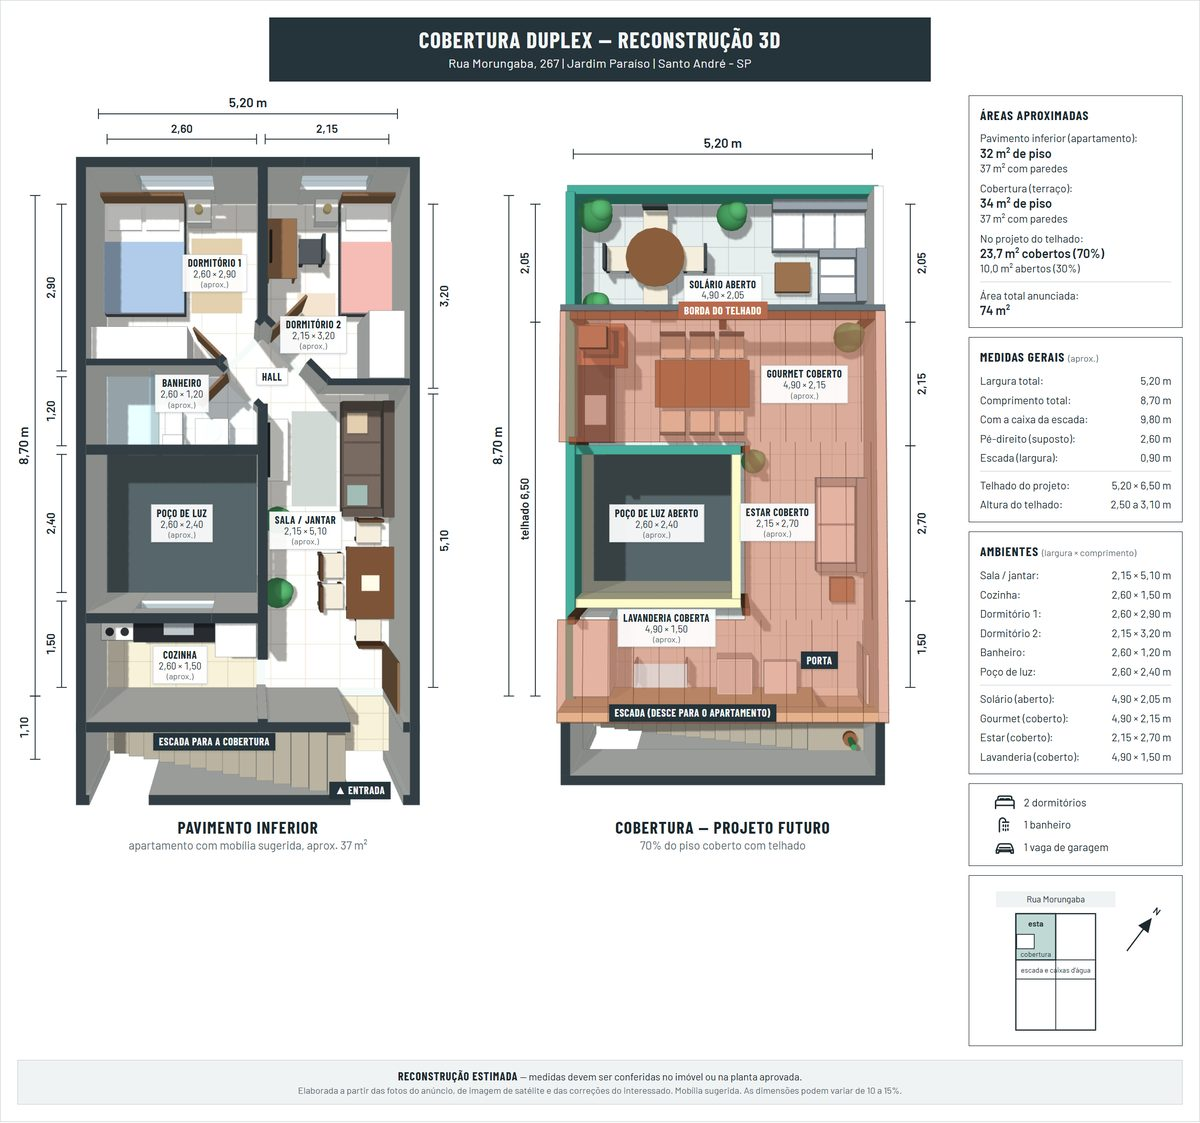
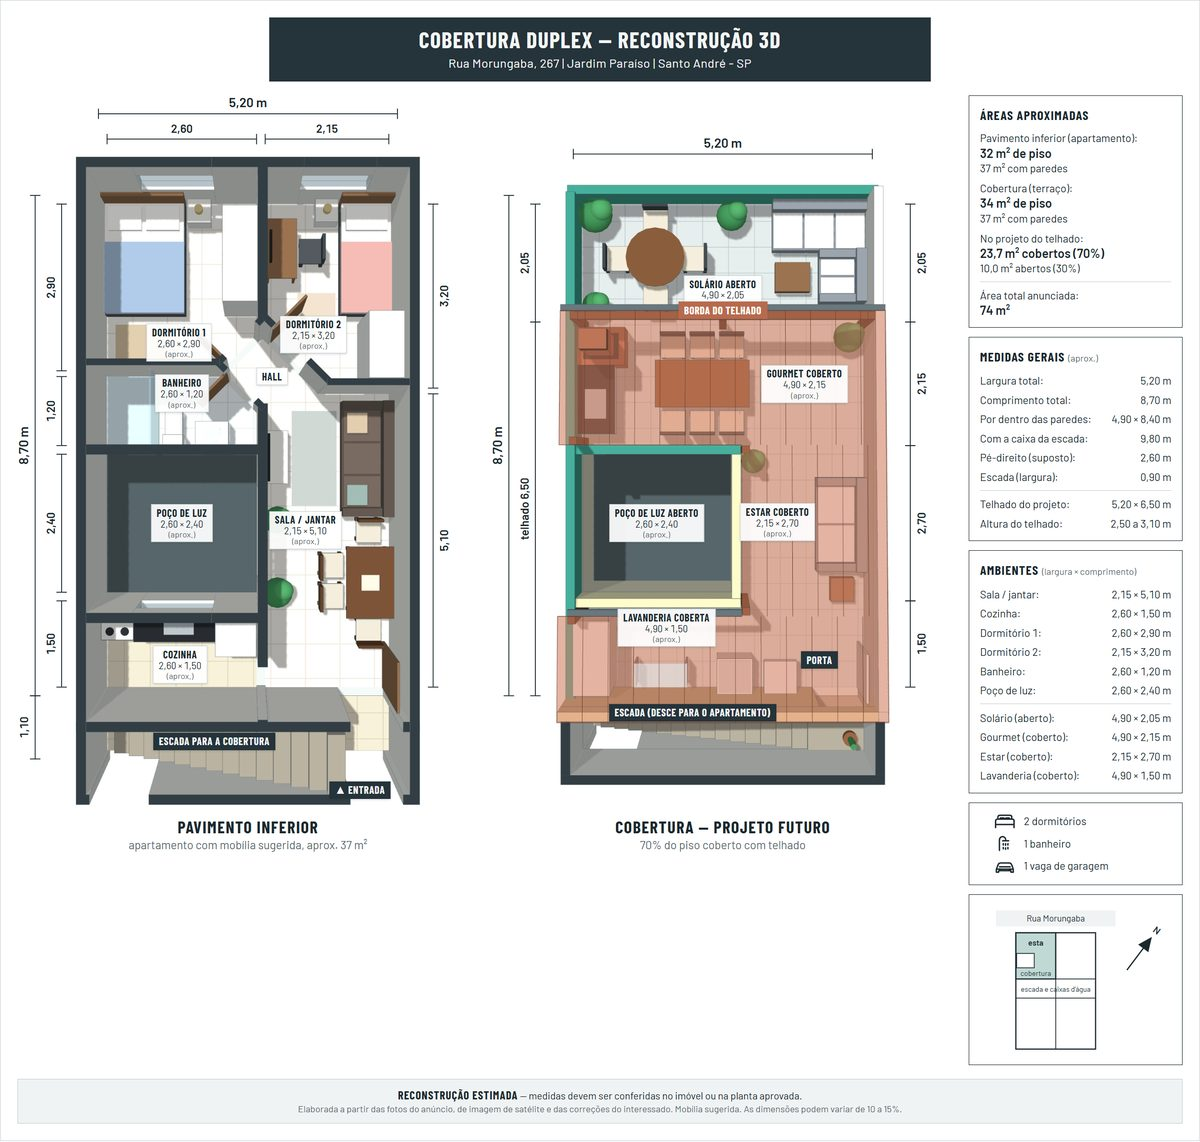
Ajustes da conferência de medidas

diff --git a/index.html b/index.html
@@ -293,7 +293,7 @@ tr:last-child td{border-bottom:0}
         <ul>
           <li>Piso interno de 60 cm e piso do terraço de 45 cm, conferidos pela porta (2,10 m), pela cama de casal e pelo tanque.</li>
           <li>Largura do prédio (cerca de 5,2 m por unidade) e posição do poço de luz tiradas do satélite.</li>
-          <li>Três leituras independentes das fotos foram cruzadas com o desenho. A soma com paredes dá 37 m² embaixo e 37 m² em cima, o que fecha com os 74 m² do anúncio.</li>
+          <li>Três leituras independentes das fotos e duas conferências de medidas foram cruzadas com o desenho. A soma com paredes dá cerca de 37 m² embaixo e 37 m² em cima, perto dos 74 m² do anúncio.</li>
         </ul>
       </div>
       <div>
@@ -338,7 +338,7 @@ var C = {q1:'#cdb898', q2:'#b7c6a6', bn:'#a6c7d1', ci:'#d6d1c4', sa:'#dcc88e', c
          furn:'#8d99a0', wood:'#8a6648', dark:'#3b4347', stair:'#a59f8f', slab:'#d9dedd', glass:'#9fd0e6', roof:'#b86a4e'};
 
 var ROOMS = [
-  {id:'q1', n:'Quarto 1 (casal)', lv:0, c:C.q1, conf:'média', lx:2.08, ly:1.30,
+  {id:'q1', n:'Quarto 1 (casal)', lv:0, c:C.q1, conf:'média', lx:1.30, ly:2.40,
    pts:[[0.15,0.15],[2.75,0.15],[2.75,2.44],[2.14,3.05],[0.15,3.05]]},
   {id:'q2', n:'Quarto 2',         lv:0, c:C.q2, conf:'média', lx:3.72, ly:2.30,
    pts:[[2.90,0.15],[5.05,0.15],[5.05,3.35],[3.86,3.35],[2.90,2.39]]},
@@ -370,7 +370,7 @@ var WALLS = [
   {lv:0,x0:0.15,y0:3.05,x1:2.17,y1:3.15,h:H0,c:C.wall},
   {lv:0,x0:3.80,y0:3.35,x1:5.05,y1:3.45,h:H0,c:C.wall},
   {lv:0,x0:0.15,y0:4.35,x1:2.75,y1:4.50,h:H0,c:C.wall,op:[{a:0.40,b:1.00,sill:1.5,head:2.1,t:'janela'}]},
-  {lv:0,x0:2.75,y0:3.73,x1:2.90,y1:8.55,h:H0,c:C.wall,op:[{a:5.00,b:6.50,sill:1.0,head:2.1,t:'janela'},{a:7.60,b:8.50,sill:0,head:2.1,t:'vao'}]},
+  {lv:0,x0:2.75,y0:3.73,x1:2.90,y1:8.55,h:H0,c:C.wall,op:[{a:5.00,b:6.50,sill:1.0,head:2.1,t:'janela'},{a:7.72,b:8.52,sill:0,head:2.1,t:'vao'}]},
   {lv:0,x0:0.15,y0:6.90,x1:2.75,y1:7.05,h:H0,c:C.wall,op:[{a:0.85,b:2.05,sill:1.1,head:2.1,t:'janela'}]},
   {lv:0,x0:0,y0:8.55,x1:5.2,y1:8.70,h:H0,c:C.wall,op:[{a:4.15,b:4.95,sill:0,head:2.1,t:'porta'}]},
   // cobertura
@@ -402,20 +402,20 @@ var DOORS = [
 ];
 // contorno dos moveis nas plantas 2D. lv 0 = apartamento, 1 = cobertura (hoje e projeto), 2 = so no projeto da cobertura
 var FURN = [
-  {lv:0,x0:0.15,y0:0.15,x1:1.53,y1:2.11},{lv:0,x0:1.57,y0:0.17,x1:1.97,y1:0.57},{lv:0,x0:0.15,y0:2.50,x1:1.65,y1:3.05},
+  {lv:0,x0:0.15,y0:0.15,x1:1.53,y1:2.11},{lv:0,x0:1.57,y0:0.17,x1:1.97,y1:0.57},{lv:0,x0:2.20,y0:0.60,x1:2.75,y1:2.10},
   {lv:0,x0:4.17,y0:0.15,x1:5.05,y1:2.11},{lv:0,x0:3.75,y0:0.17,x1:4.13,y1:0.55},{lv:0,x0:4.50,y0:2.25,x1:5.05,y1:3.30},{lv:0,x0:2.90,y0:0.55,x1:3.42,y1:1.55},
-  {lv:0,x0:4.20,y0:3.60,x1:5.05,y1:5.55},{lv:0,x0:2.90,y0:3.90,x1:3.28,y1:4.95},{lv:0,x0:4.25,y0:6.05,x1:5.05,y1:7.25},
+  {lv:0,x0:4.20,y0:3.60,x1:5.05,y1:5.55},{lv:0,x0:2.90,y0:4.10,x1:3.28,y1:5.00},{lv:0,x0:4.25,y0:6.05,x1:5.05,y1:7.25},
   {lv:0,x0:0.70,y0:7.05,x1:2.05,y1:7.60},{lv:0,x0:0.15,y0:7.05,x1:0.70,y1:7.60},{lv:0,x0:2.08,y0:7.05,x1:2.73,y1:7.72},
-  {lv:0,x0:0.15,y0:3.15,x1:1.05,y1:4.35},{lv:0,x0:1.17,y0:3.76,x1:1.50,y1:4.35},{lv:0,x0:1.72,y0:3.90,x1:2.27,y1:4.35},
+  {lv:0,x0:0.15,y0:3.15,x1:1.05,y1:4.35},{lv:0,x0:1.17,y0:3.76,x1:1.50,y1:4.35},{lv:0,x0:1.72,y0:3.95,x1:2.27,y1:4.35},
   {lv:1,x0:3.30,y0:8.00,x1:3.85,y1:8.55},{lv:1,x0:2.50,y0:7.95,x1:3.10,y1:8.55},
-  {lv:2,x0:0.15,y0:2.30,x1:0.95,y1:3.00},{lv:2,x0:0.15,y0:3.00,x1:0.75,y1:4.30},{lv:2,x0:1.45,y0:2.90,x1:3.05,y1:3.70},
+  {lv:2,x0:0.15,y0:2.36,x1:0.95,y1:3.00},{lv:2,x0:0.15,y0:3.00,x1:0.75,y1:4.15},{lv:2,x0:1.45,y0:2.90,x1:3.05,y1:3.70},
   {lv:2,x0:4.20,y0:4.90,x1:5.05,y1:6.50},{lv:2,x0:3.45,y0:0.17,x1:5.05,y1:1.00},{lv:2,x0:4.25,y0:1.00,x1:5.05,y1:1.90},
-  {lv:2,x0:0.95,y0:0.65,x1:1.95,y1:1.65},{lv:2,x0:0.15,y0:7.15,x1:0.75,y1:8.45}
+  {lv:2,x0:0.95,y0:0.65,x1:1.95,y1:1.65},{lv:2,x0:0.15,y0:7.22,x1:0.75,y1:8.45}
 ];
 var STAIR = {x0:0.30, x1:4.08, y0:8.75, y1:9.65, n:14};   // 14 pisos, 15 espelhos, sobe da esquerda para a direita
 
 // projeto futuro: telhado cobrindo 70% do piso do terraco. Fica aberta a faixa da frente e o poco de luz.
-var ROOF = {y0:2.20, y1:8.70, x0:0, x1:5.20, nx:2.95, ny0:4.30, ny1:7.10, h0:2.50, h1:3.10};
+var ROOF = {y0:2.20, y1:8.70, x0:0, x1:5.20, nx:2.90, ny0:4.35, ny1:7.05, h0:2.50, h1:3.10};
 ROOF.pts = [[ROOF.x0,ROOF.y0],[ROOF.x1,ROOF.y0],[ROOF.x1,ROOF.y1],[ROOF.x0,ROOF.y1],[ROOF.x0,ROOF.ny1],[ROOF.nx,ROOF.ny1],[ROOF.nx,ROOF.ny0],[ROOF.x0,ROOF.ny0]];
 var POSTS = [[0.21,2.27],[2.60,2.27],[4.99,2.27],[0.21,4.28],[2.97,4.42],[2.97,6.98],[0.21,7.12]];
 var ZONES = [   // ambientes do projeto da cobertura: nome, x, y, largura, comprimento, coberto?
@@ -533,6 +533,7 @@ plan(1, document.getElementById('p2'), true);
   document.getElementById('geral').innerHTML = '<thead><tr><th>Item</th><th class="num">Medida</th></tr></thead><tbody>'+
     tr('Largura externa (apartamento e cobertura)',fmt(W)+' m')+
     tr('Comprimento externo, da frente até a parede da escada',fmt(D)+' m')+
+    tr('Medidas internas (de parede a parede)',fmt(W-0.30)+' × '+fmt(D-0.30)+' m')+
     tr('Caixa da escada, atrás',fmt(DC-D)+' m')+
     tr('Comprimento total com a escada',fmt(DC)+' m')+
     tr('Vão do lado do poço de luz (quarto 1, banheiro, cozinha)','2,60 m')+
@@ -544,13 +545,14 @@ plan(1, document.getElementById('p2'), true);
     tr('Porta de entrada','0,80 × 2,10 m')+
     tr('Portas dos quartos (a 45°)','0,70 e 0,75 × 2,10 m')+
     tr('Porta do banheiro (a 45°)','0,65 × 2,10 m')+
-    tr('Vão da cozinha, sem porta','0,90 m')+
+    tr('Vão da cozinha, sem porta','0,80 m')+
     tr('Janelas dos quartos e da cozinha','1,20 × 1,00 m')+
     tr('Janela da sala (para o poço)','1,50 × 1,10 m')+
     tr('Janela do banheiro','0,60 × 0,60 m')+
     tr('Escada: largura livre',fmt(st.y1-st.y0)+' m')+
     tr('Escada: 14 pisos e 15 espelhos',f1(piso)+' cm e '+f1(esp)+' cm')+
     tr('Escada: comprimento do lance',fmt(st.x1-st.x0)+' m')+
+    tr('Escada: onde começa embaixo','a confirmar no local')+
     tr('Mureta da frente do terraço','1,20 m de altura')+
     tr('Mureta do poço de luz','1,35 m de altura')+
     tr('Mureta do lado esquerdo','1,50 m de altura')+
@@ -575,7 +577,7 @@ plan(1, document.getElementById('p2'), true);
     '<p>No projeto do telhado:<b>'+f1(COB)+' m² cobertos ('+PCT+'%)</b>'+f1(DESC)+' m² abertos ('+(100-PCT)+'%)</p><hr>'+
     '<p>Área total anunciada:<b>74 m²</b></p>';
   function dd(n,v){ return '<dt>'+n+'</dt><dd>'+v+'</dd>'; }
-  document.getElementById('b-geral').innerHTML = dd('Largura total:',fmt(W)+' m')+dd('Comprimento total:',fmt(D)+' m')+dd('Com a caixa da escada:',fmt(DC)+' m')+
+  document.getElementById('b-geral').innerHTML = dd('Largura total:',fmt(W)+' m')+dd('Comprimento total:',fmt(D)+' m')+dd('Por dentro das paredes:',fmt(W-0.30)+' × '+fmt(D-0.30)+' m')+dd('Com a caixa da escada:',fmt(DC)+' m')+
     dd('Pé-direito (suposto):','2,60 m')+dd('Escada (largura):',fmt(st.y1-st.y0)+' m')+'<div class="sep"></div>'+
     dd('Telhado do projeto:',fmt(ROOF.x1-ROOF.x0)+' × '+fmt(ROOF.y1-ROOF.y0)+' m')+dd('Altura do telhado:',fmt(ROOF.h0)+' a '+fmt(ROOF.h1)+' m');
   function dr(n,id){ var r=room(id); return dd(n,fmt(r.w)+' × '+fmt(r.d)+' m'); }
@@ -709,8 +711,8 @@ plan(1, document.getElementById('p2'), true);
     // quarto 1
     bed(g,z,0.15,0.15,1.53,2.11,'#9db4cf',2);
     box(g,1.57,0.17,1.97,0.57,z,z+0.50,'#f2f1ed'); cyl(g,1.77,0.37,z+0.50,z+0.72,0.07,'#d8c690');
-    box(g,0.15,2.50,1.65,3.05,z,z+2.05,'#f2f1ed'); box(g,0.89,2.50,0.91,2.51,z+0.05,z+2.0,'#9aa3a8',0,true);
-    box(g,1.62,0.75,2.50,2.05,z+0.004,z+0.016,'#c8b89a',0,true);
+    box(g,2.20,0.60,2.75,2.10,z,z+2.05,'#f2f1ed'); box(g,2.20,1.34,2.21,1.36,z+0.05,z+2.0,'#9aa3a8',0,true);
+    box(g,0.30,2.25,1.42,2.92,z+0.004,z+0.016,'#c8b89a',0,true);
     // quarto 2
     bed(g,z,4.17,0.15,5.05,2.11,'#d9a7a0',1);
     box(g,3.75,0.17,4.13,0.55,z,z+0.50,'#f2f1ed'); cyl(g,3.94,0.36,z+0.50,z+0.72,0.07,'#d8c690');
@@ -722,7 +724,7 @@ plan(1, document.getElementById('p2'), true);
     // sala
     sofaE(g,z,4.20,3.60,5.05,5.55,'#5a4f48','#6b5f57'); box(g,4.28,3.80,4.62,4.14,z+0.46,z+0.56,'#c9b79c',0,true); box(g,4.28,5.02,4.62,5.36,z+0.46,z+0.56,'#8fa7a0',0,true);
     box(g,3.36,3.75,4.14,5.40,z+0.004,z+0.016,'#b9c0bd',0,true);
-    box(g,2.90,3.90,3.28,4.95,z,z+0.48,'#f2f1ed'); box(g,2.91,3.98,2.96,4.87,z+0.78,z+1.32,'#1d2124');
+    box(g,2.90,4.10,3.28,5.00,z,z+0.48,'#f2f1ed'); box(g,2.91,4.16,2.96,4.94,z+0.78,z+1.32,'#1d2124');
     plant(g,z,3.10,5.62,0.9); plant(g,z,3.10,6.85,1.0);
     table(g,z,4.25,6.05,5.05,7.25); box(g,4.50,6.52,4.80,6.78,z+0.76,z+0.79,'#e7e0cf',0,true);
     chair(g,z,4.01,6.39,'w'); chair(g,z,4.01,6.91,'w'); chair(g,z,4.65,5.79,'n'); chair(g,z,4.65,7.51,'s');
@@ -735,7 +737,7 @@ plan(1, document.getElementById('p2'), true);
     // banheiro
     box(g,0.15,3.15,1.05,4.35,z+0.004,z+0.03,'#cfe3ea',0,true); box(g,1.04,3.15,1.07,4.35,z,z+1.9,C.glass,0.32,true);
     box(g,1.17,4.17,1.50,4.35,z,z+0.74,'#fbfbfa'); box(g,1.19,3.76,1.48,4.17,z,z+0.40,'#fbfbfa'); box(g,1.21,3.78,1.46,4.15,z+0.40,z+0.43,'#eef1f2',0,true);
-    box(g,1.72,3.90,2.27,4.35,z,z+0.80,'#fbfbfa'); cyl(g,1.99,4.12,z+0.80,z+0.83,0.17,'#dfe7ea');
+    box(g,1.72,3.95,2.27,4.35,z,z+0.80,'#fbfbfa'); cyl(g,1.99,4.15,z+0.80,z+0.83,0.16,'#dfe7ea');
     box(g,1.15,3.28,1.65,3.60,z+0.004,z+0.018,'#b7c9d6',0,true);
   })();
   // ---------- cobertura hoje: tanque e maquina (ficam tambem no projeto) ----------
@@ -756,6 +758,7 @@ plan(1, document.getElementById('p2'), true);
     var out=ROOF.pts.concat([ROOF.pts[0]]); for(var k=0;k<out.length-1;k++) pts.push(new THREE.Vector3(out[k][0]-CX,z+hR(out[k][1])+0.014,out[k][1]-CY), new THREE.Vector3(out[k+1][0]-CX,z+hR(out[k+1][1])+0.014,out[k+1][1]-CY));
     roofLines=new THREE.LineSegments(new THREE.BufferGeometry().setFromPoints(pts),new THREE.LineBasicMaterial({color:0x6b3a2a})); g.add(roofLines);
     box(g,0,ROOF.y0-0.10,W,ROOF.y0,z+ROOF.h0-0.13,z+ROOF.h0-0.03,'#5d6a6e');                                   // calha da frente
+    box(g,0.15,ROOF.ny1-0.10,ROOF.nx,ROOF.ny1,z+hR(ROOF.ny1)-0.13,z+hR(ROOF.ny1)-0.03,'#5d6a6e');                // calha atras do poco de luz
     box(g,0.15,ROOF.y0+0.01,5.05,ROOF.y0+0.13,z+ROOF.h0-0.27,z+ROOF.h0-0.085,WD);                               // viga da frente
     POSTS.forEach(function(p){ box(g,p[0]-0.06,p[1]-0.06,p[0]+0.06,p[1]+0.06,z,z+hR(p[1])-0.085,WD); });
     // muro alto e parede do fundo sobem ate o telhado
@@ -764,15 +767,15 @@ plan(1, document.getElementById('p2'), true);
     place(g,wg,mat(C.white),W-CX,z,-CY,0,false,false);
     box(g,0,D-0.15,W,D,z+2.4,z+hR(D-0.15)-0.085,C.cream);
     // gourmet coberto
-    box(g,0.15,2.30,0.95,3.00,z,z+1.0,'#a8674d'); box(g,0.25,2.42,0.85,2.88,z+1.0,z+1.02,'#2a2d30',0,true); box(g,0.33,2.48,0.77,2.82,z+1.02,z+hR(2.65)+0.45,'#a8674d');
-    box(g,0.15,3.00,0.75,4.30,z,z+0.86,'#f4f3ef'); box(g,0.15,3.00,0.77,4.30,z+0.86,z+0.90,'#23272b'); box(g,0.27,3.50,0.63,4.00,z+0.895,z+0.908,'#a7b0b5',0,true);
+    box(g,0.15,2.36,0.95,3.00,z,z+1.0,'#a8674d'); box(g,0.25,2.46,0.85,2.90,z+1.0,z+1.02,'#2a2d30',0,true); box(g,0.33,2.52,0.77,2.84,z+1.02,z+hR(2.68)+0.45,'#a8674d');
+    box(g,0.15,3.00,0.75,4.15,z,z+0.86,'#f4f3ef'); box(g,0.15,3.00,0.77,4.15,z+0.86,z+0.90,'#23272b'); box(g,0.27,3.40,0.63,3.90,z+0.895,z+0.908,'#a7b0b5',0,true);
     table(g,z,1.45,2.90,3.05,3.70,'#7a5236');
     [1.75,2.25,2.75].forEach(function(x){ chair(g,z,x,2.64,'n',FAB,'#3b4347'); chair(g,z,x,3.96,'s',FAB,'#3b4347'); });
     plant(g,z,4.75,2.50,1.0);
     // estar coberto
     sofaE(g,z,4.20,4.90,5.05,6.50,'#8a9299','#eef0f0'); box(g,4.45,6.62,4.85,7.02,z,z+0.45,WL); plant(g,z,3.12,4.62,0.8);
     // lavanderia coberta
-    box(g,0.15,7.15,0.75,8.45,z,z+1.9,'#f2f1ed');
+    box(g,0.15,7.22,0.75,8.45,z,z+1.9,'#f2f1ed');
     box(g,1.10,8.02,1.14,8.42,z,z+1.0,'#9aa3a8',0,true); box(g,1.96,8.02,2.00,8.42,z,z+1.0,'#9aa3a8',0,true); box(g,1.10,8.02,2.00,8.42,z+1.0,z+1.02,'#c9d0d4',0.6,true);
     // solario descoberto
     sofaN(g,z,3.45,0.17,5.05,1.00,'#8a9299','#eef0f0'); sofaE(g,z,4.25,1.00,5.05,1.90,'#8a9299','#eef0f0'); box(g,3.50,1.20,4.10,1.70,z,z+0.35,WL);
@@ -850,7 +853,7 @@ plan(1, document.getElementById('p2'), true);
   function zd(i){ return fmt(ZONES[i].w)+' × '+fmt(ZONES[i].d); }
   function stills(){
     try{
-      still(0,'st0',[[2.02,1.35,'DORMITÓRIO 1',dm('q1')],[3.74,2.42,'DORMITÓRIO 2',dm('q2')],[1.45,3.44,'BANHEIRO',dm('bn')],[3.02,3.15,'HALL',''],
+      still(0,'st0',[[1.40,2.56,'DORMITÓRIO 1',dm('q1')],[3.74,2.42,'DORMITÓRIO 2',dm('q2')],[1.45,3.44,'BANHEIRO',dm('bn')],[3.02,3.15,'HALL',''],
         [3.60,5.82,'SALA / JANTAR',dm('sa')],[1.45,5.70,'POÇO DE LUZ',fmt(VOID.w)+' × '+fmt(VOID.d)],[1.42,8.16,'COZINHA',dm('cz')],
         [2.05,9.20,'ESCADA PARA A COBERTURA','',1,1.2],[4.55,10.34,'▲ ENTRADA','',1]],
         [[0,-1.42,W,-1.42,fmt(W)+' m',0,1],[0.15,-0.98,2.75,-0.98,'2,60'],[2.90,-0.98,5.05,-0.98,'2,15'],
